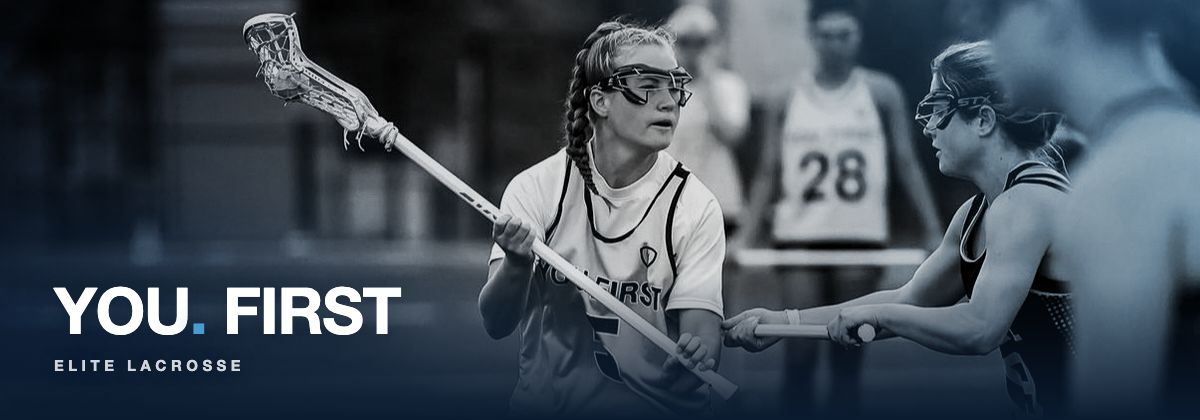
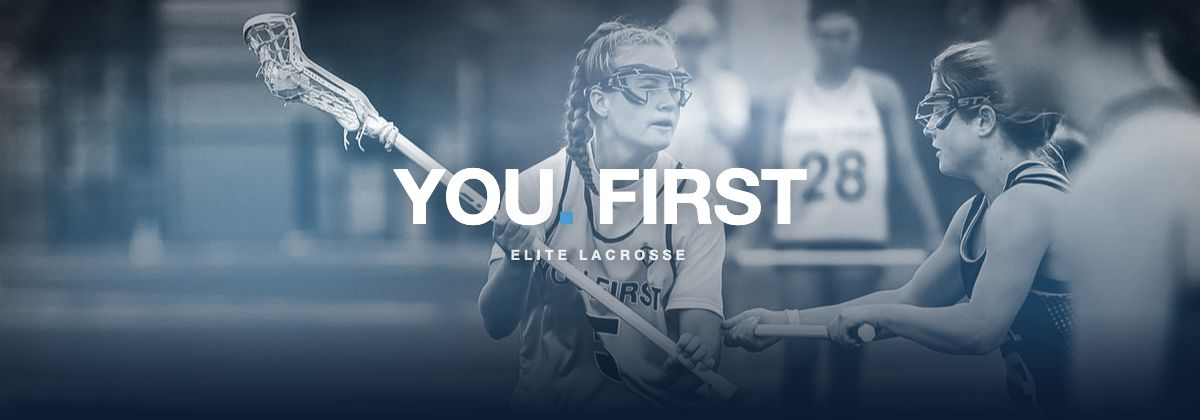
fix(placements): three headers that are actually three headers
The first pass shipped three near-identical bands — same crop, same wordmark
corner, same scrim, and aurora ribbons positioned mostly outside the visible
area so the colour barely showed. I changed the crop and the wash and then
sent them without looking at the result. If the differences need pointing out,
they are not treatments.

These differ in STRUCTURE, not exposure:

  Aurora   centred wordmark, Carolina light washing the full band, the
           photograph reading through it
  Split    a solid navy panel carries the type and the photograph owns the
           rest, divided by a Carolina seam — the type never sits on the picture
  Duotone  luminance kept, hue mapped navy → Carolina across the frame, so the
           photograph becomes a graphic; Carolina rule over a small wordmark

Same palette rules as before: every stop from globals.css, no green.

diff --git a/src/lib/placement/config.ts b/src/lib/placement/config.ts
@@ -31,12 +31,15 @@ export const ADMIN_NOTIFY = [
  * reach.
  */
 export const HEADER_VARIANTS: Record<string, string> = {
+  /** Centred wordmark, Carolina light washing the whole band. */
   aurora: "header-img-1947-aurora.jpg",
-  deep: "header-img-1947-deep.jpg",
-  edge: "header-img-1947-edge.jpg",
+  /** Navy panel carries the type; the photograph owns the rest. */
+  split: "header-img-1947-split.jpg",
+  /** The photograph mapped navy → Carolina. Reads as a graphic. */
+  duotone: "header-img-1947-duotone.jpg",
 };
 
-export const HEADER_DEFAULT = "deep";
+export const HEADER_DEFAULT = "split";
 
 export function heroUrl(variant?: string | null): string {
   const file =
